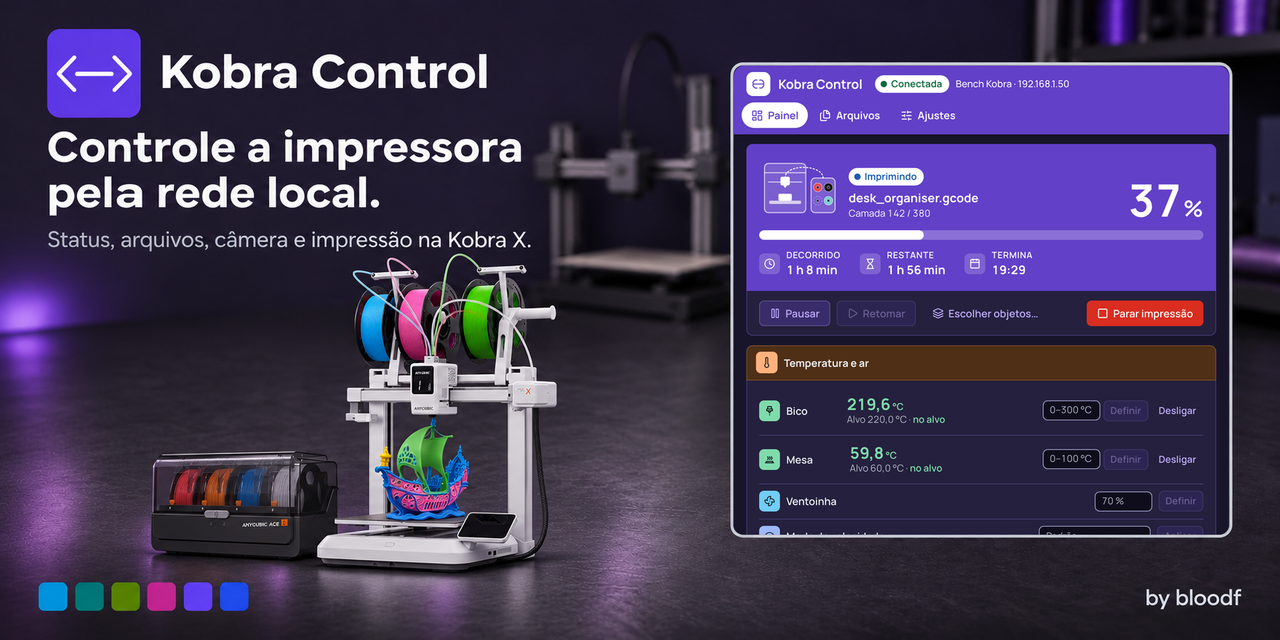
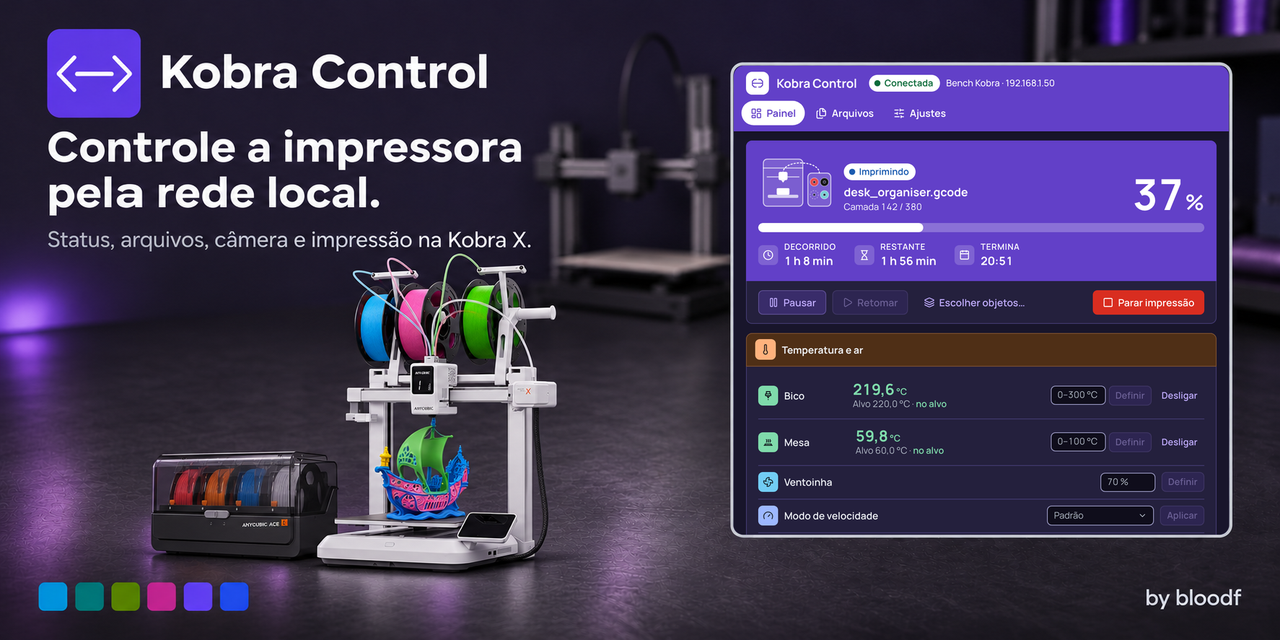
docs(assets): re-export the screenshots so each ends on a complete row

Changed region(s): [[0.5625, 0.0938, 0.9688, 0.8438]]

diff --git a/scripts/marketing_images.py b/scripts/marketing_images.py
@@ -30,7 +30,7 @@ LANDSCAPE, SQUARE, SOCIAL = (0.74, 0.47), (0.74, 0.56), (0.77, 0.47)   # a point
 
 # The picture inside each panel: (scene of shots.mjs, page width in CSS px). The page is rendered at the panel's own
 # aspect ratio, so nothing is cropped away.
-DASH, LAN, STATUS, ACE, FILES = ("store-dash", 800), ("store-lan", 800), ("store-status", 940), ("store-ace", 800), ("store-files", 800)
+DASH, LAN, STATUS, ACE, FILES = ("store-dash", 845), ("store-lan", 800), ("store-status", 940), ("store-ace", 800), ("store-files", 800)
 
 # (source in assets/marketing/source, point in panel, (scene, width), theme, language, export, size)
 JOBS = [
@@ -46,8 +46,8 @@ JOBS = [
     ("feature-03-ace-pt-BR", LANDSCAPE, ACE, "dark", "pt_BR", "orca-cloud/kobracontrol-feature-03-ace-pt-BR.png", (1600, 900)),
     ("feature-04-files-en", LANDSCAPE, FILES, "dark", "en", "orca-cloud/kobracontrol-feature-04-files-en.png", (1600, 900)),
     ("feature-04-files-pt-BR", LANDSCAPE, FILES, "dark", "pt_BR", "orca-cloud/kobracontrol-feature-04-files-pt-BR.png", (1600, 900)),
-    ("social-preview-en", SOCIAL, ("store-dash", 620), "dark", "en", "social/kobracontrol-social-preview-en.png", (1280, 640)),
-    ("social-preview-pt-BR", SOCIAL, ("store-dash", 620), "dark", "pt_BR", "social/kobracontrol-social-preview-pt-BR.png", (1280, 640)),
+    ("social-preview-en", SOCIAL, ("store-dash", 616), "dark", "en", "social/kobracontrol-social-preview-en.png", (1280, 640)),
+    ("social-preview-pt-BR", SOCIAL, ("store-dash", 648), "dark", "pt_BR", "social/kobracontrol-social-preview-pt-BR.png", (1280, 640)),
     ("hero-dark-en", LANDSCAPE, DASH, "dark", "en", "readme/kobracontrol-hero-dark-en.png", (1600, 900)),
     ("hero-dark-pt-BR", LANDSCAPE, DASH, "dark", "pt_BR", "readme/kobracontrol-hero-dark-pt-BR.png", (1600, 900)),
     ("hero-light-en", LANDSCAPE, DASH, "light", "en", "readme/kobracontrol-hero-light-en.png", (1600, 900)),
